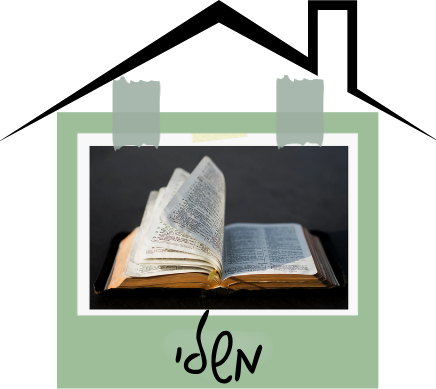
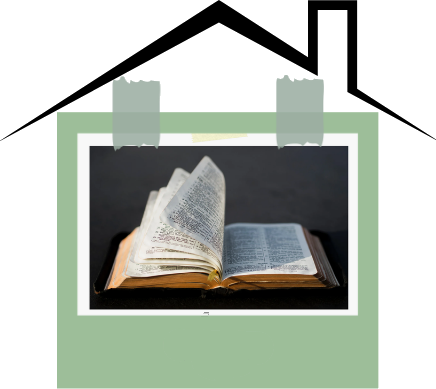
Subject houses: remove baked-in label from all 18 house PNGs, show the name below in Gveret Levin, taller arch
- public/images/houses/*: label text erased from the polaroid strip (originals kept locally in the gitignored _houses_backup_2026-10-04/)
- home grid + SubjectCard: house + <span houseLabel> (font-hand) under it; arch 200->236 (home), 118->152 / 138->174 (cards)
- house width capped (min(52%,170px)) so it never overflows the arch in single-column layouts

Changed region(s): [[0.3876, 0.8021, 0.5963, 0.9871]]

diff --git a/src/app/page.tsx b/src/app/page.tsx
@@ -230,14 +230,17 @@ export default async function HomePage() {
                   }
                 >
                   {SUBJECT_HOUSES[c.slug] ? (
-                    <div className={s.houseWrap}>
-                      <img
-                        className={s.house}
-                        src={SUBJECT_HOUSES[c.slug]}
-                        alt={c.title}
-                        width={356}
-                        height={266}
-                      />
+                    <div className={s.houseStack}>
+                      <div className={s.houseWrap}>
+                        <img
+                          className={s.house}
+                          src={SUBJECT_HOUSES[c.slug]}
+                          alt=""
+                          width={356}
+                          height={266}
+                        />
+                      </div>
+                      <span className={s.houseLabel}>{c.title}</span>
                     </div>
                   ) : (
                     <Image className={s.nut} src={nutForLevel(c.slug, 0)} alt="" aria-hidden />

diff --git a/src/app/home.module.css b/src/app/home.module.css
@@ -544,7 +544,7 @@
 }
 /* "חצי הירח" — חלון עם קו מתאר עט כחול, מתמלא בגוון הבית ב-hover */
 .arch {
-  height: 200px;
+  height: 236px;
   margin: 14px 14px 0;
   border-radius: 120px 120px 16px 16px;
   background: transparent;
@@ -562,9 +562,26 @@
   background: color-mix(in srgb, var(--accent, var(--blue)) 22%, transparent);
   border-color: color-mix(in srgb, var(--accent, var(--blue)) 70%, var(--blue));
 }
+/* בית + שם המקצוע מתחתיו (השם כבר לא בתוך התמונה) */
+.houseStack {
+  width: 100%;
+  display: flex;
+  flex-direction: column;
+  align-items: center;
+  gap: 10px;
+  padding-bottom: 6px;
+}
+.houseLabel {
+  font-family: var(--font-hand);
+  font-size: 25px;
+  line-height: 1.15;
+  color: var(--ink);
+  text-align: center;
+  white-space: nowrap;
+}
 .houseWrap {
   position: relative;
-  width: 52%;
+  width: min(52%, 170px);
   aspect-ratio: 356 / 266;
 }
 .house {

diff --git a/src/components/subject-card.module.css b/src/components/subject-card.module.css
@@ -18,7 +18,7 @@
 }
 
 .arch {
-  height: 118px;
+  height: 152px;
   margin: 10px 10px 0;
   border-radius: 70px 70px 12px 12px;
   background: transparent;
@@ -37,12 +37,32 @@
   border-color: color-mix(in srgb, var(--accent, var(--blue)) 70%, var(--blue));
 }
 .big .arch {
-  height: 138px;
+  height: 174px;
 }
 
+/* בית + שם המקצוע מתחתיו (השם כבר לא בתוך התמונה) */
+.houseStack {
+  width: 100%;
+  display: flex;
+  flex-direction: column;
+  align-items: center;
+  gap: 6px;
+  padding-bottom: 4px;
+}
+.houseLabel {
+  font-family: var(--font-hand);
+  font-size: 18px;
+  line-height: 1.15;
+  color: var(--ink);
+  text-align: center;
+  white-space: nowrap;
+}
+.big .houseLabel {
+  font-size: 20px;
+}
 .houseWrap {
   position: relative;
-  width: 56%;
+  width: min(56%, 150px);
   aspect-ratio: 356 / 266;
 }
 .house {

diff --git a/src/components/subject-card.tsx b/src/components/subject-card.tsx
@@ -56,8 +56,11 @@ export function SubjectCard({
     >
       <div className={s.arch} style={{ "--accent": accent } as CSSProperties}>
         {house ? (
-          <div className={s.houseWrap}>
-            <img className={s.house} src={house} alt={title} width={356} height={266} />
+          <div className={s.houseStack}>
+            <div className={s.houseWrap}>
+              <img className={s.house} src={house} alt="" width={356} height={266} />
+            </div>
+            <span className={s.houseLabel}>{title}</span>
           </div>
         ) : nutKey ? (
           <Image className={s.nut} src={nutForLevel(nutKey, nutDepth)} alt="" aria-hidden />
